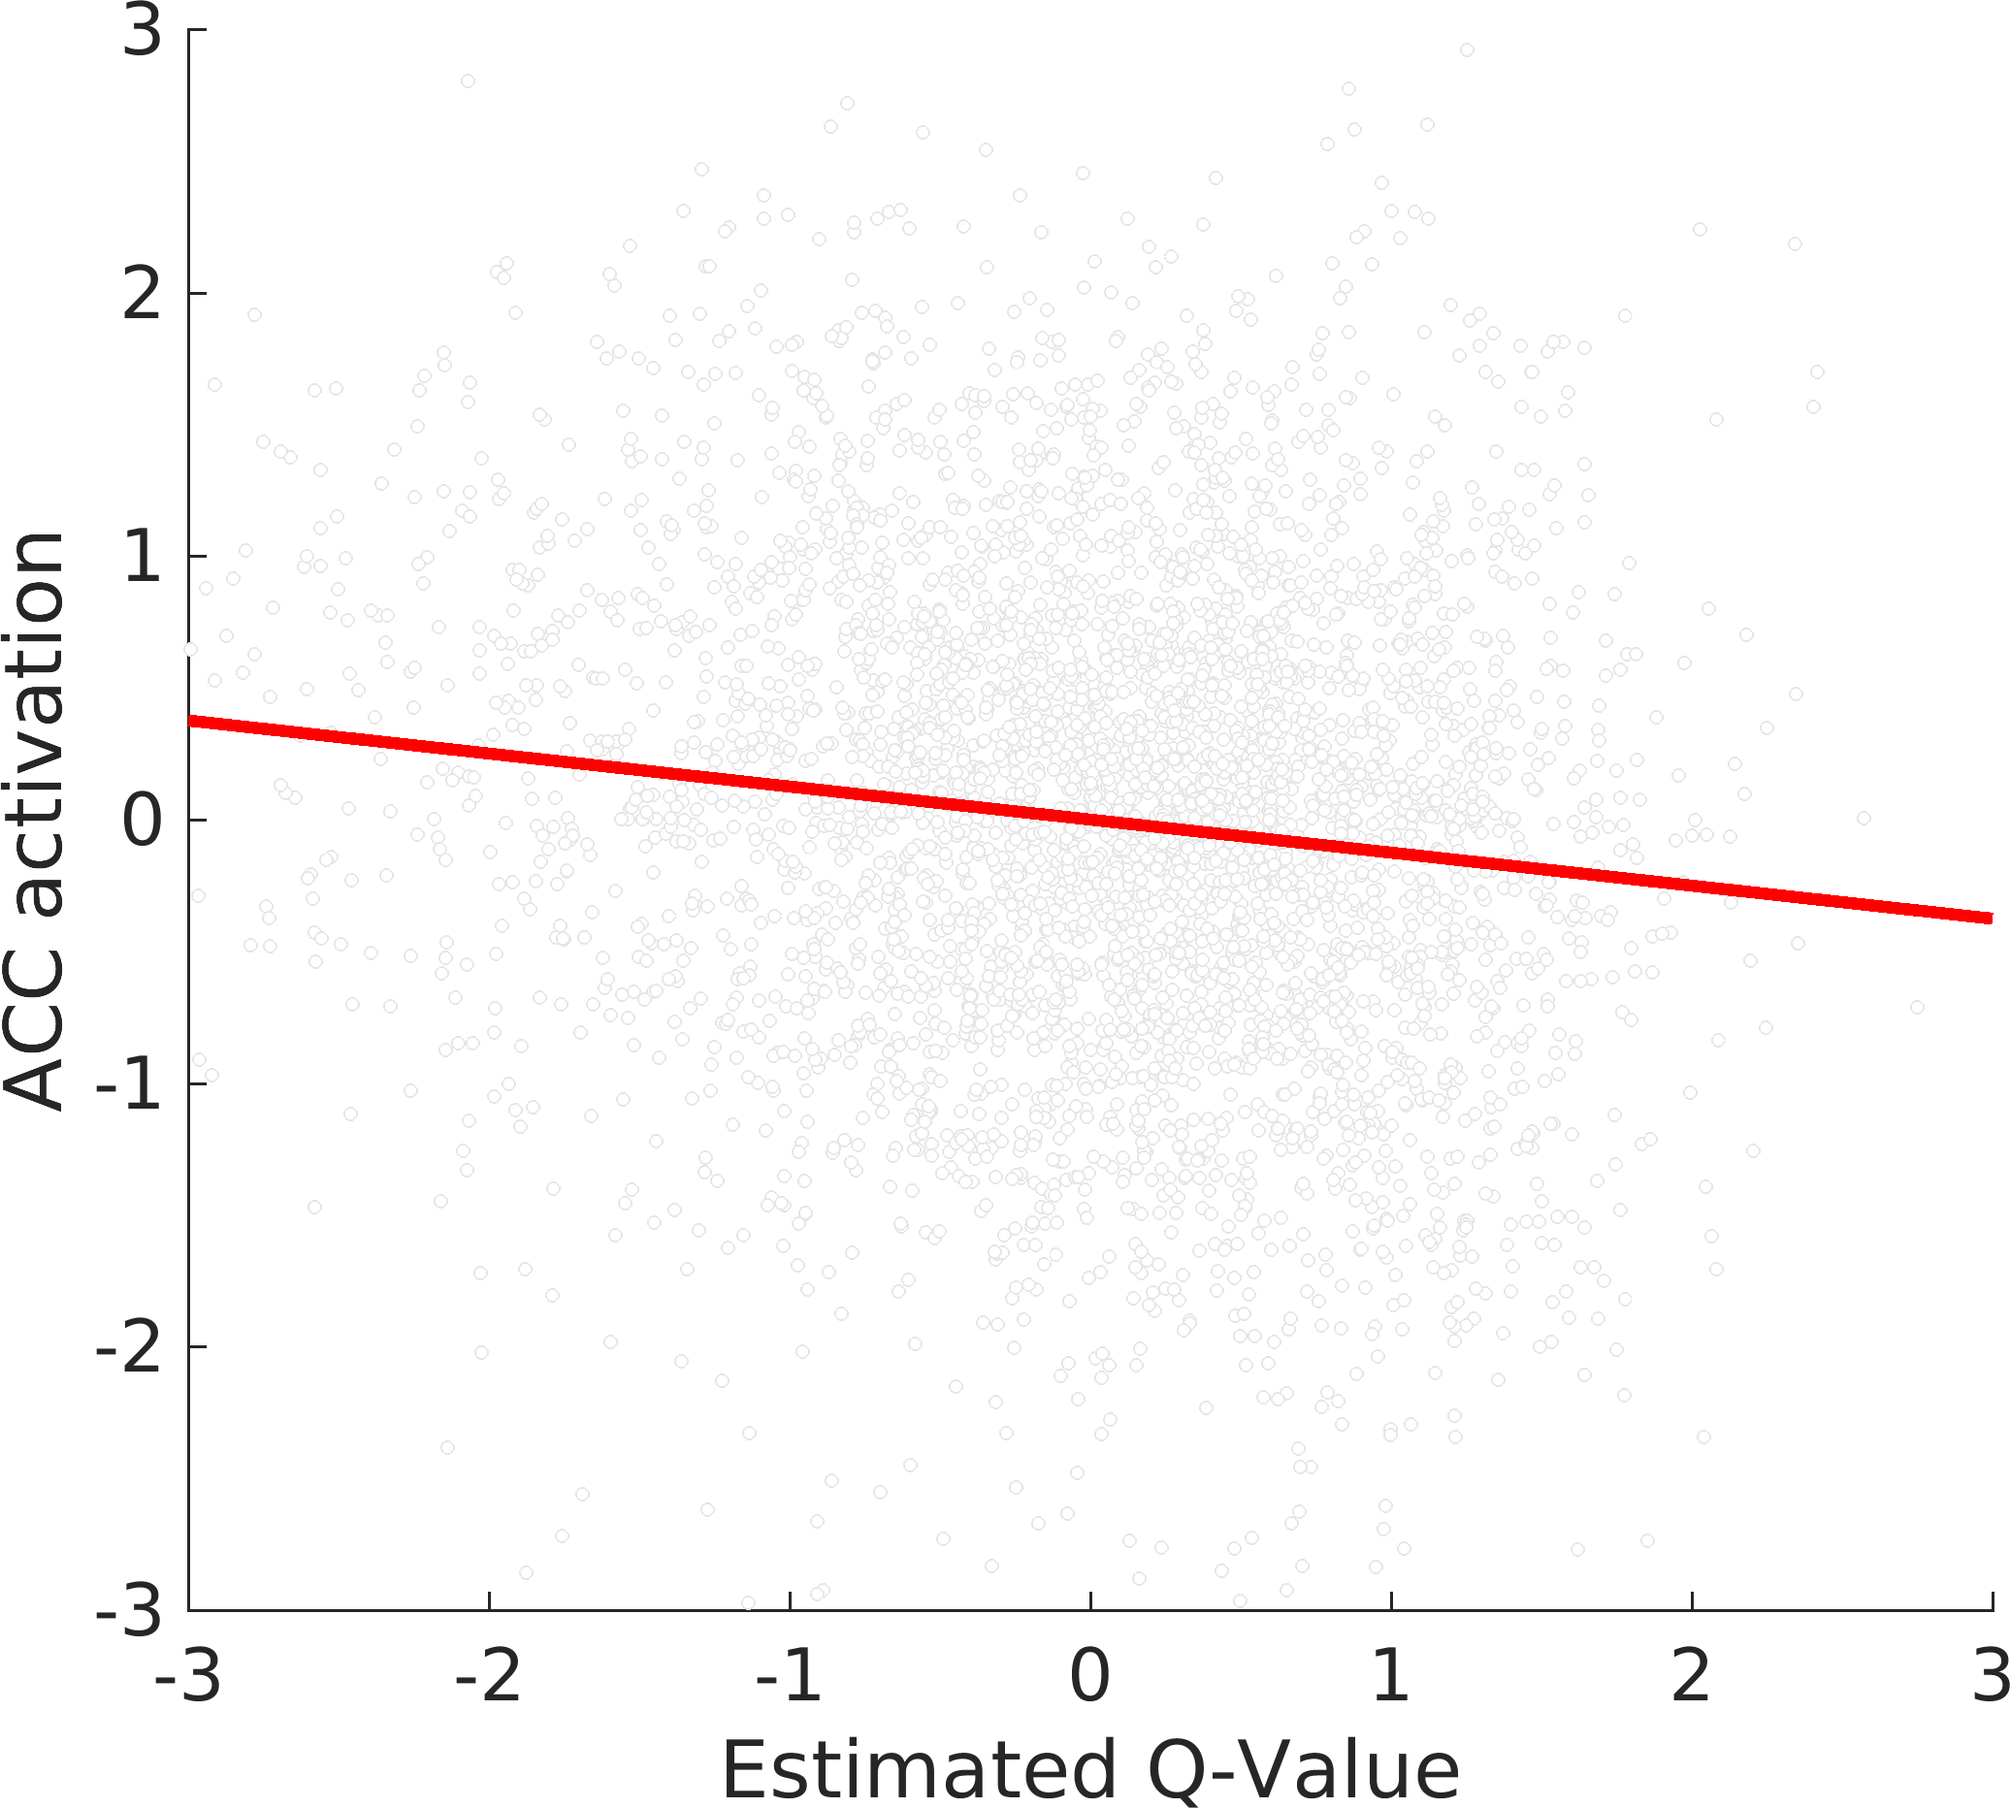
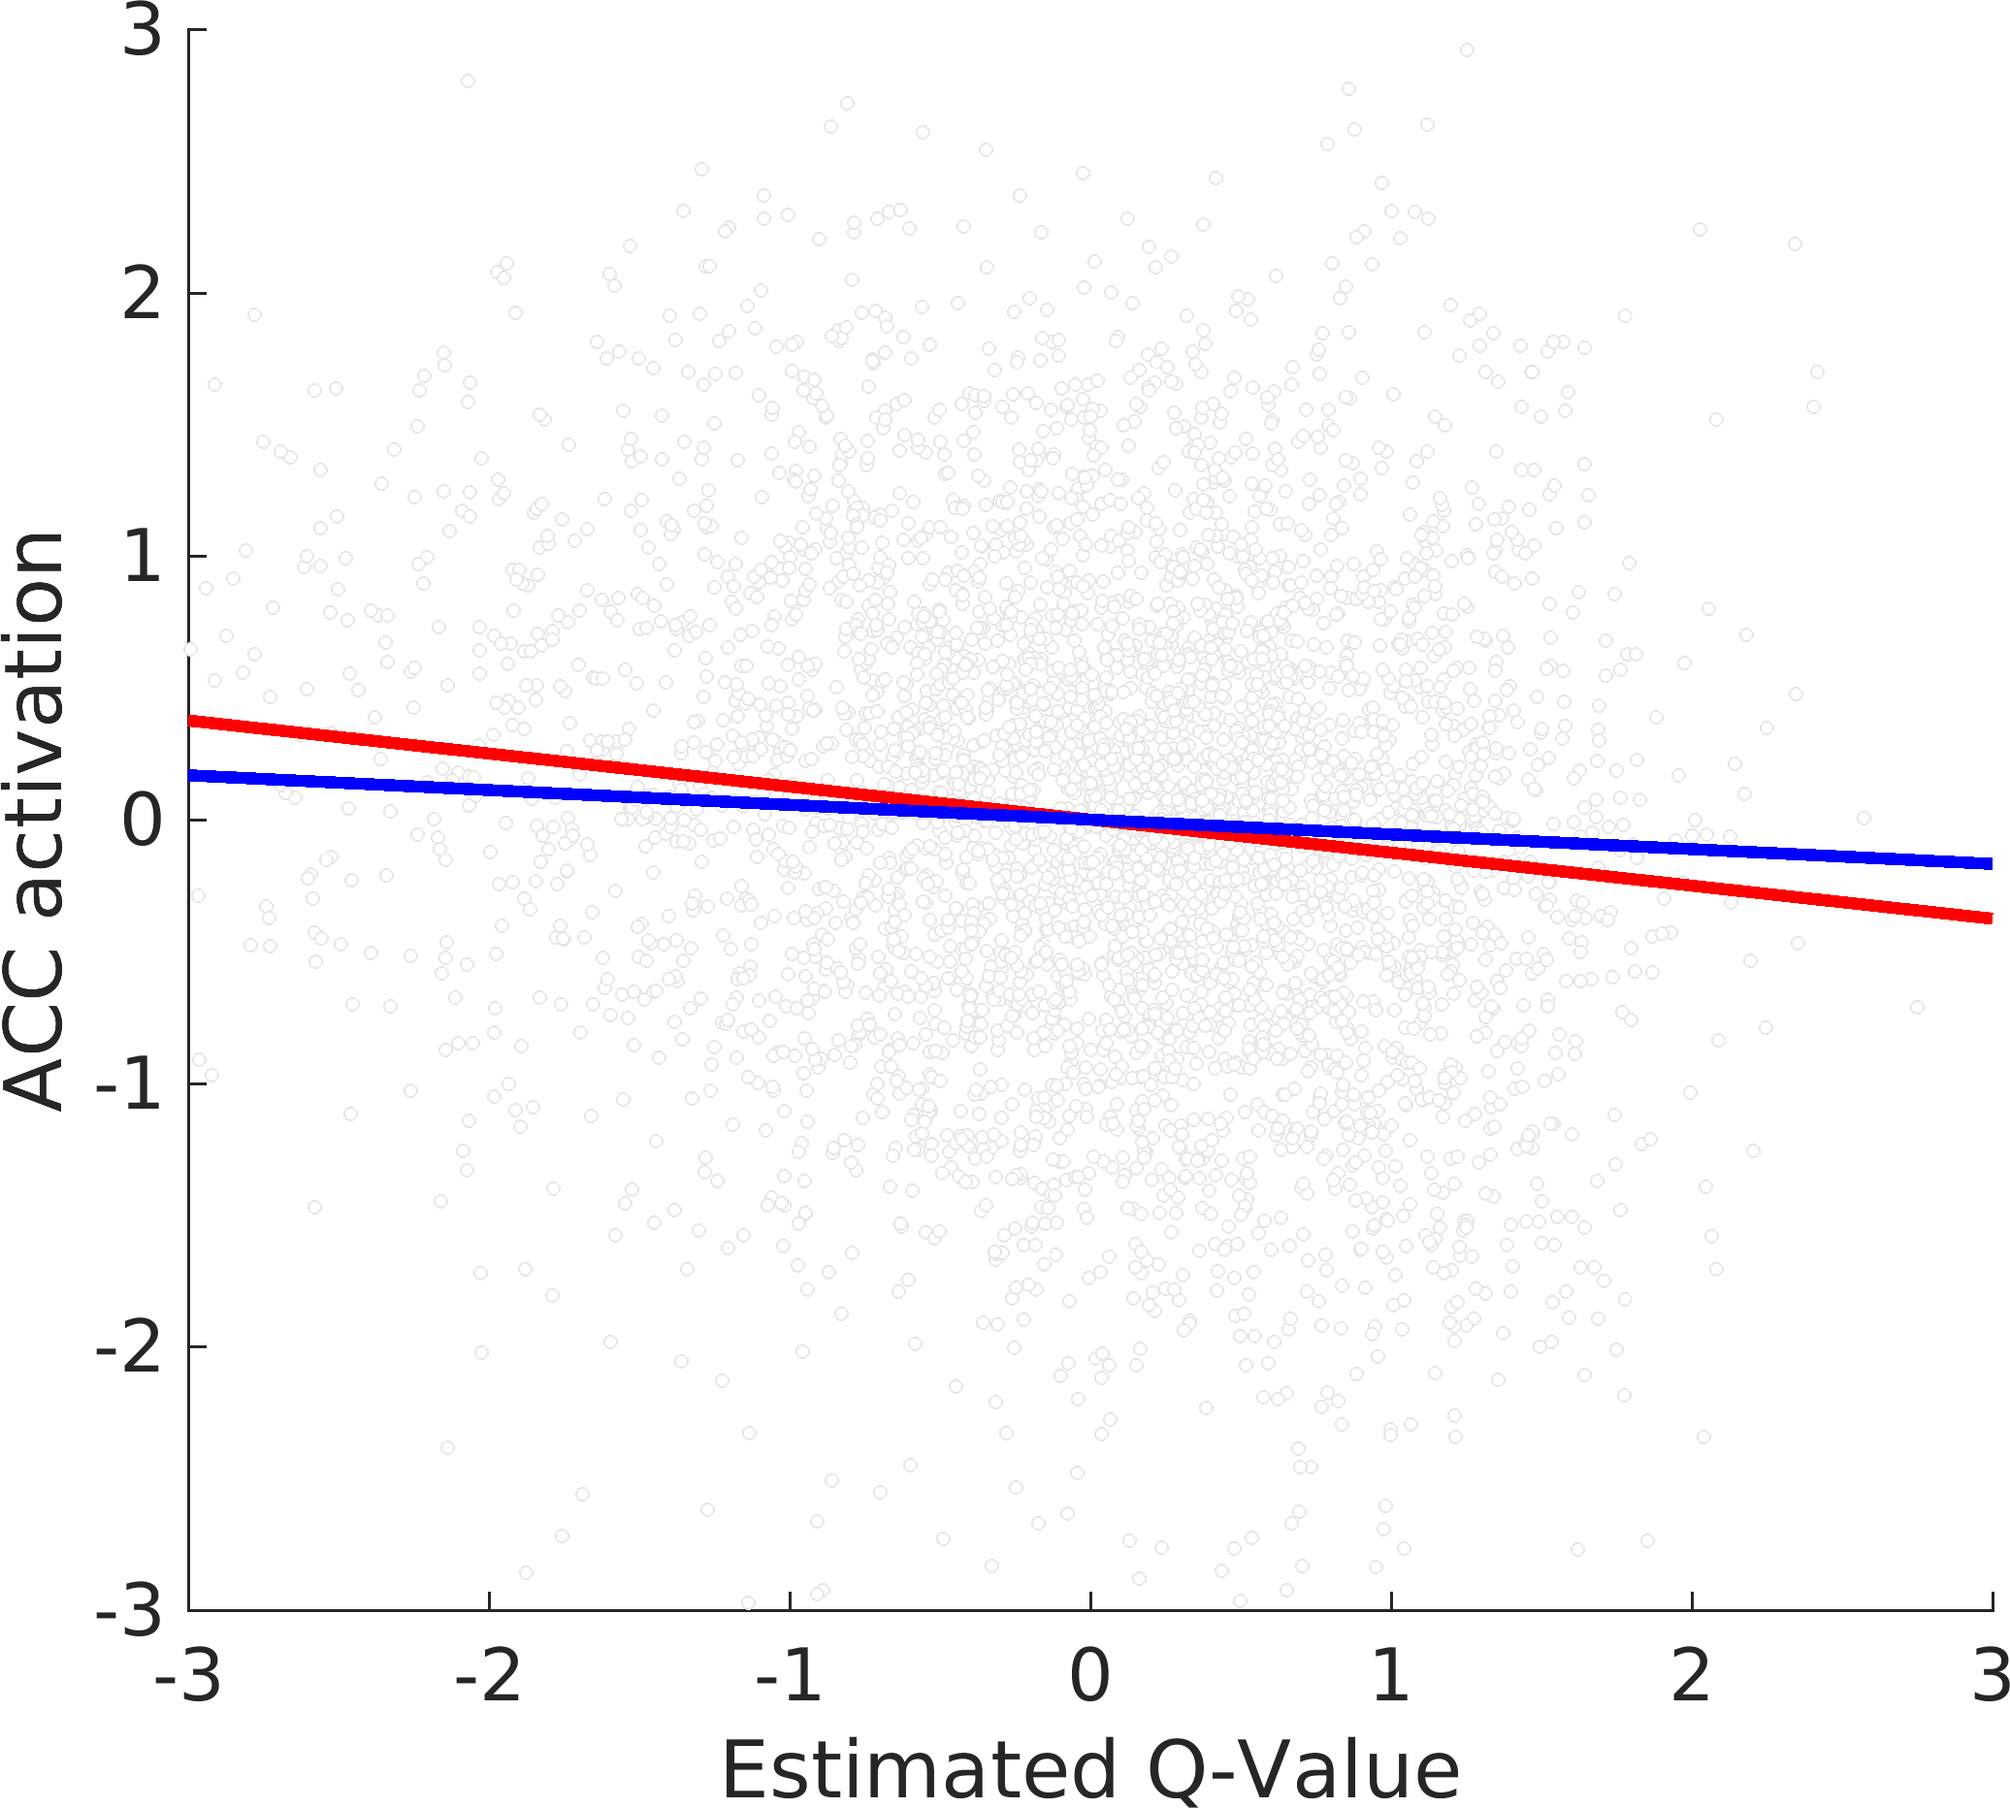
added ACC activation comparison for both VAL and ARO

Changed region(s): [[0.2162, 0.4356, 0.9884, 0.4979], [0.0927, 0.4045, 0.2162, 0.4356]]

diff --git a/source/analysis/analyze_ccm_icaACC_a.m b/source/analysis/analyze_ccm_icaACC_a.m
@@ -140,8 +140,8 @@ for i = 1:numel(subjs)
         acc = base_acc(indx,1);
 
         % true predictors
-        err = reshape(abs(err_mdls.a_dcmp.err'),1, ...
-                      prod(size(err_mdls.a_dcmp.err)))'; %
+        err = reshape(abs(err_mdls.a_dcmp.err'),1,prod(size(err_mdls.a_dcmp.err)))'; %
+
                                                          % *** TICKET ***
         cnf = reshape(cnf_mdls.a_dcmp.cnf',1,prod(size(cnf_mdls.a_dcmp.cnf)))';
         pel = reshape(pel_mdls.a_dcmp.pel',1,prod(size(pel_mdls.a_dcmp.pel)))';
@@ -213,20 +213,12 @@ SS_res=sum((mdl.residuals).^2);
 SS_tot=sum((measures-mean(measures)).^2);
 Rsqr = 1-(SS_res/SS_tot);
 Fsqr = Rsqr/(1-Rsqr);
+logger(['Overall model fit'],proj.path.logfile);
 logger(['  Rsqr=',num2str(Rsqr)],proj.path.logfile);
 logger(['  Fsqr=',num2str(Fsqr)],proj.path.logfile);
 
 disp(' ');
 
-figure(1)
-set(gcf,'color','w');
-
-%% ----------------------------------------
-%% plot all the datapoints
-scatter(evcs,measures,10,'MarkerFaceColor', ...
-        proj.param.plot.white,'MarkerEdgeColor', ...
-        proj.param.plot.very_light_grey);
-hold on;
 
 %% ----------------------------------------
 %% format figure
@@ -234,12 +226,43 @@ ymin = -3;
 ymax = 3;
 xmin = -3;
 xmax = 3; 
+vseq = linspace(xmin,xmax);
+
 
 %% ----------------------------------------
-%% overlay the group VR skill plot
-vseq = linspace(xmin,xmax);
-y_hat = FE.Estimate(1) + FE.Estimate(2)*vseq;
-plot(vseq,y_hat,'r-','LineWidth',3);
+%% plot all the datapoints
+
+%plot err
+figure(1)
+set(gcf,'color','w');
+scatter(errs,measures,10,'MarkerFaceColor', ...
+        proj.param.plot.white,'MarkerEdgeColor', ...
+        proj.param.plot.very_light_grey);
+hold on;
+y_hat_err = FE.Estimate(1) + FE.Estimate(2)*vseq;
+plot(vseq,y_hat_err,'r-','LineWidth',3);
+
+xlim([xmin,xmax]);
+ylim([ymin,ymax]);
+
+hold off;
+fig = gcf;
+ax = fig.CurrentAxes;
+ax.FontSize = proj.param.plot.axisLabelFontSize;
+
+xlabel('Estimated Error');
+ylabel('ACC activation');
+
+
+%plot evc
+figure(2)
+set(gcf,'color','w');
+scatter(evcs,measures,10,'MarkerFaceColor', ...
+        proj.param.plot.white,'MarkerEdgeColor', ...
+        proj.param.plot.very_light_grey);
+hold on;
+y_hat_evc = FE.Estimate(1) + FE.Estimate(6)*vseq;
+plot(vseq,y_hat_evc,'r-','LineWidth',3);
 
 xlim([xmin,xmax]);
 ylim([ymin,ymax]);
@@ -252,7 +275,9 @@ ax.FontSize = proj.param.plot.axisLabelFontSize;
 xlabel('Estimated Q-Value');
 ylabel('ACC activation');
 
-%% ----------------------------------------
-%% explot hi-resolution figure
-export_fig 'R01_outcome_summary.png' -r300  
-eval(['! mv ',proj.path.code,'R01_outcome_summary.png ',proj.path.fig]);
+
+
+% %% ----------------------------------------
+% %% explot hi-resolution figure
+% export_fig 'R01_outcome_summary_a.png' -r300  
+% eval(['! mv ',proj.path.code,'R01_outcome_summary_a.png ',proj.path.fig]);

diff --git a/source/analysis/analyze_ccm_icaACC_v.m b/source/analysis/analyze_ccm_icaACC_v.m
@@ -140,8 +140,8 @@ for i = 1:numel(subjs)
         acc = base_acc(indx,1);
 
         % true predictors
-        err = reshape(abs(err_mdls.v_dcmp.err'),1, ...
-                      prod(size(err_mdls.v_dcmp.err)))'; %
+        err = reshape(abs(err_mdls.v_dcmp.err'),1,prod(size(err_mdls.v_dcmp.err)))'; %
+
                                                          % *** TICKET ***
         cnf = reshape(cnf_mdls.v_dcmp.cnf',1,prod(size(cnf_mdls.v_dcmp.cnf)))';
         pel = reshape(pel_mdls.v_dcmp.pel',1,prod(size(pel_mdls.v_dcmp.pel)))';
@@ -213,20 +213,12 @@ SS_res=sum((mdl.residuals).^2);
 SS_tot=sum((measures-mean(measures)).^2);
 Rsqr = 1-(SS_res/SS_tot);
 Fsqr = Rsqr/(1-Rsqr);
+logger(['Overall model fit'],proj.path.logfile);
 logger(['  Rsqr=',num2str(Rsqr)],proj.path.logfile);
 logger(['  Fsqr=',num2str(Fsqr)],proj.path.logfile);
 
 disp(' ');
 
-figure(1)
-set(gcf,'color','w');
-
-%% ----------------------------------------
-%% plot all the datapoints
-scatter(evcs,measures,10,'MarkerFaceColor', ...
-        proj.param.plot.white,'MarkerEdgeColor', ...
-        proj.param.plot.very_light_grey);
-hold on;
 
 %% ----------------------------------------
 %% format figure
@@ -234,12 +226,43 @@ ymin = -3;
 ymax = 3;
 xmin = -3;
 xmax = 3; 
+vseq = linspace(xmin,xmax);
+
 
 %% ----------------------------------------
-%% overlay the group VR skill plot
-vseq = linspace(xmin,xmax);
-y_hat = FE.Estimate(1) + FE.Estimate(2)*vseq;
-plot(vseq,y_hat,'r-','LineWidth',3);
+%% plot all the datapoints
+
+%plot err
+figure(1)
+set(gcf,'color','w');
+scatter(errs,measures,10,'MarkerFaceColor', ...
+        proj.param.plot.white,'MarkerEdgeColor', ...
+        proj.param.plot.very_light_grey);
+hold on;
+y_hat_err = FE.Estimate(1) + FE.Estimate(2)*vseq;
+plot(vseq,y_hat_err,'r-','LineWidth',3);
+
+xlim([xmin,xmax]);
+ylim([ymin,ymax]);
+
+hold off;
+fig = gcf;
+ax = fig.CurrentAxes;
+ax.FontSize = proj.param.plot.axisLabelFontSize;
+
+xlabel('Estimated Error');
+ylabel('ACC activation');
+
+
+%plot evc
+figure(2)
+set(gcf,'color','w');
+scatter(evcs,measures,10,'MarkerFaceColor', ...
+        proj.param.plot.white,'MarkerEdgeColor', ...
+        proj.param.plot.very_light_grey);
+hold on;
+y_hat_evc = FE.Estimate(1) + FE.Estimate(6)*vseq;
+plot(vseq,y_hat_evc,'r-','LineWidth',3);
 
 xlim([xmin,xmax]);
 ylim([ymin,ymax]);
@@ -252,7 +275,9 @@ ax.FontSize = proj.param.plot.axisLabelFontSize;
 xlabel('Estimated Q-Value');
 ylabel('ACC activation');
 
-%% ----------------------------------------
-%% explot hi-resolution figure
-export_fig 'R01_outcome_summary.png' -r300  
-eval(['! mv ',proj.path.code,'R01_outcome_summary.png ',proj.path.fig]);
+
+
+% %% ----------------------------------------
+% %% explot hi-resolution figure
+% export_fig 'R01_outcome_summary_v.png' -r300  
+% eval(['! mv ',proj.path.code,'R01_outcome_summary_v.png ',proj.path.fig]);
